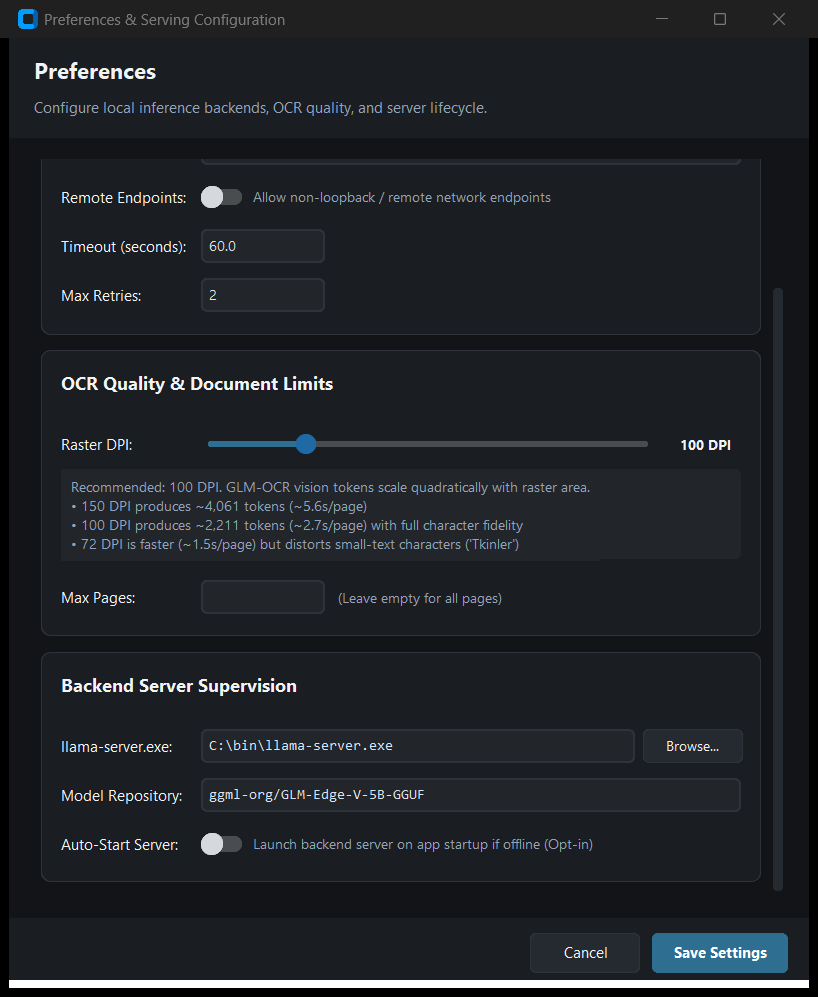
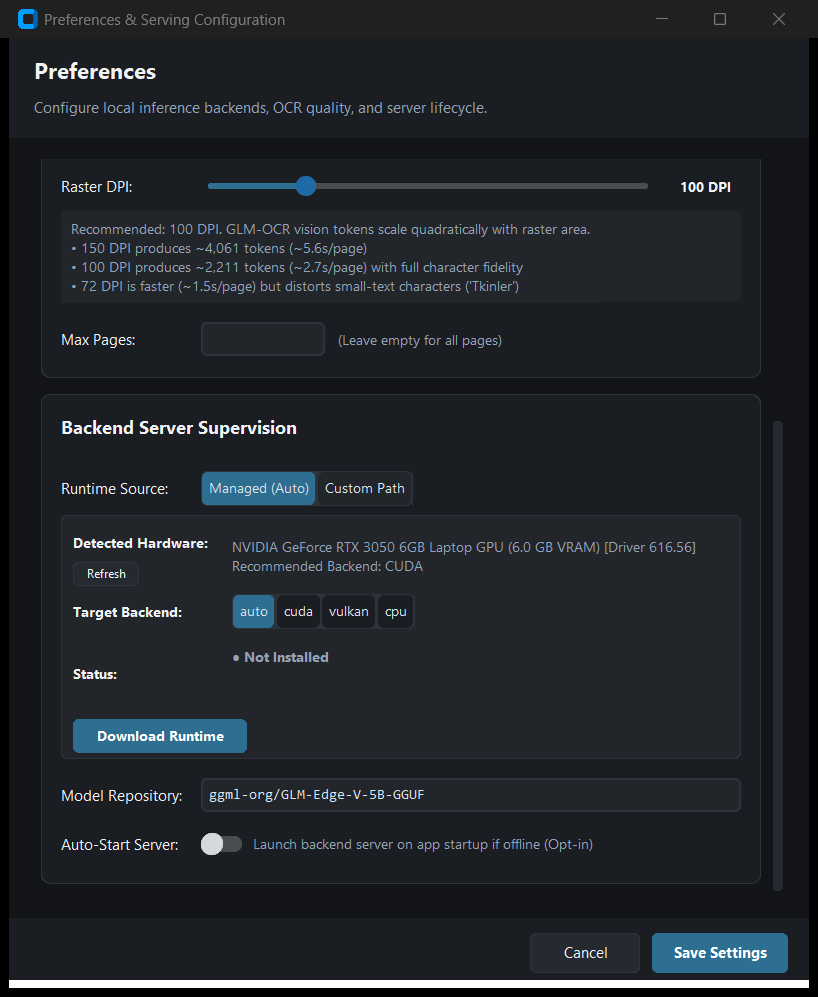
style(gui): restyle CTkSegmentedButton unselected state with Calm Trust border
- Configure fg_color=COLOR_SURFACE_BORDER and border_width=1 across all segmented buttons
- Removes default harsh grey border from unselected options in SettingsWindow and OCRApp
- Regenerate visual preview screenshots (docs/images/)
- Add automated test verifying styling consistency across all segmented buttons

diff --git a/scripts/capture_settings_screenshot.py b/scripts/capture_settings_screenshot.py
@@ -90,6 +90,8 @@ def main() -> None:
         auto_start_server=False,
         dpi=100,
         max_pages=None,
+        runtime_mode="managed",
+        managed_backend_override="auto",
     )
 
     win = SettingsWindow(root, settings=settings)
@@ -104,12 +106,25 @@ def main() -> None:
     img.save(out_path, format="PNG")
     print(f"Saved preview to: {out_path} ({img.width}x{img.height})")
 
+    # Scroll down to capture Managed Runtime and Server Supervision
+    win._scroll._parent_canvas.yview_moveto(1.0)
+    win.update_idletasks()
+    win.update()
+    time.sleep(0.3)
+
+    img_scrolled = capture_window_to_image(win)
+    out_scrolled_path = Path("docs/images/settings_window_scrolled_preview.png").resolve()
+    img_scrolled.save(out_scrolled_path, format="PNG")
+    print(f"Saved scrolled preview to: {out_scrolled_path} ({img_scrolled.width}x{img_scrolled.height})")
+
     # Also copy to artifacts directory
     artifact_dir = Path(r"docs/images/_generated")
     if artifact_dir.exists():
         artifact_path = artifact_dir / "settings_window_preview.png"
         img.save(artifact_path, format="PNG")
-        print(f"Saved artifact preview to: {artifact_path}")
+        artifact_scrolled_path = artifact_dir / "settings_window_scrolled_preview.png"
+        img_scrolled.save(artifact_scrolled_path, format="PNG")
+        print(f"Saved artifact previews to: {artifact_dir}")
 
     win.destroy()
     root.destroy()

diff --git a/gui/settings_window.py b/gui/settings_window.py
@@ -418,6 +418,8 @@ class SettingsWindow(ctk.CTkToplevel):
         self._seg_backend = ctk.CTkSegmentedButton(
             container,
             values=["llama-cpp", "ollama", "vllm"],
+            fg_color=COLOR_SURFACE_BORDER,
+            border_width=1,
             selected_color=COLOR_ACCENT_PRIMARY,
             selected_hover_color=COLOR_ACCENT_HOVER,
             unselected_color=COLOR_SURFACE_2,
@@ -609,6 +611,8 @@ class SettingsWindow(ctk.CTkToplevel):
         self._seg_runtime_mode = ctk.CTkSegmentedButton(
             container,
             values=["Managed (Auto)", "Custom Path"],
+            fg_color=COLOR_SURFACE_BORDER,
+            border_width=1,
             selected_color=COLOR_ACCENT_PRIMARY,
             selected_hover_color=COLOR_ACCENT_HOVER,
             unselected_color=COLOR_SURFACE_2,
@@ -685,6 +689,8 @@ class SettingsWindow(ctk.CTkToplevel):
         self._seg_managed_backend = ctk.CTkSegmentedButton(
             self._frame_managed,
             values=["auto", "cuda", "vulkan", "cpu"],
+            fg_color=COLOR_SURFACE_BORDER,
+            border_width=1,
             selected_color=COLOR_ACCENT_PRIMARY,
             selected_hover_color=COLOR_ACCENT_HOVER,
             unselected_color=COLOR_SURFACE_1,

diff --git a/tests/test_gui.py b/tests/test_gui.py
@@ -2472,3 +2472,30 @@ def test_theme_tokens_reexported_in_app():
     for token in tokens:
         assert hasattr(gui.app, token), f"gui.app missing re-export of {token}"
         assert getattr(gui.app, token) == getattr(gui.theme, token)
+
+
+def test_segmented_button_styling_consistency():
+    """Verify all segmented buttons use Calm Trust COLOR_SURFACE_BORDER and border_width=1."""
+    from gui.theme import COLOR_SURFACE_BORDER
+    from gui.settings_window import SettingsWindow
+    from gui.app import OCRApp
+
+    parent = ctk.CTk()
+    parent.withdraw()
+    try:
+        win = SettingsWindow(parent, settings=Settings())
+        for seg in [win._seg_backend, win._seg_runtime_mode, win._seg_managed_backend]:
+            assert seg.cget("fg_color") == COLOR_SURFACE_BORDER
+            assert seg.cget("border_width") == 1
+        win.destroy()
+
+        app = OCRApp(engine=MagicMock())
+        app.withdraw()
+        try:
+            assert app._tabview._segmented_button.cget("fg_color") == COLOR_SURFACE_BORDER
+            assert app._tabview._segmented_button.cget("border_width") == 1
+        finally:
+            app._on_closing()
+    finally:
+        parent.destroy()
+

diff --git a/gui/app.py b/gui/app.py
@@ -534,7 +534,7 @@ class OCRApp(ctk.CTk, tdnd.DnDWrapper):
             fg_color=COLOR_SURFACE_1,
             segmented_button_selected_color=COLOR_INTERACTIVE_NEUTRAL,
             segmented_button_selected_hover_color=COLOR_INTERACTIVE_HOVER,
-            segmented_button_fg_color=COLOR_SURFACE_2,
+            segmented_button_fg_color=COLOR_SURFACE_BORDER,
             segmented_button_unselected_color=COLOR_SURFACE_2,
             segmented_button_unselected_hover_color=COLOR_INTERACTIVE_HOVER,
             command=self._on_tab_changed,
@@ -542,6 +542,7 @@ class OCRApp(ctk.CTk, tdnd.DnDWrapper):
         self._tabview._segmented_button.configure(
             height=30,
             corner_radius=6,
+            border_width=1,
             font=ctk.CTkFont(family="Segoe UI", size=11),
             text_color=COLOR_TEXT_PRIMARY,
         )
